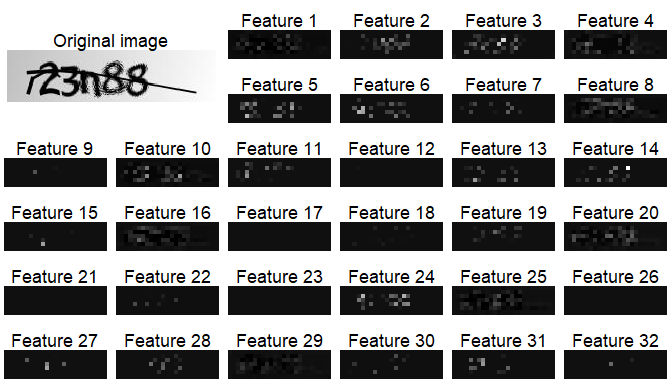
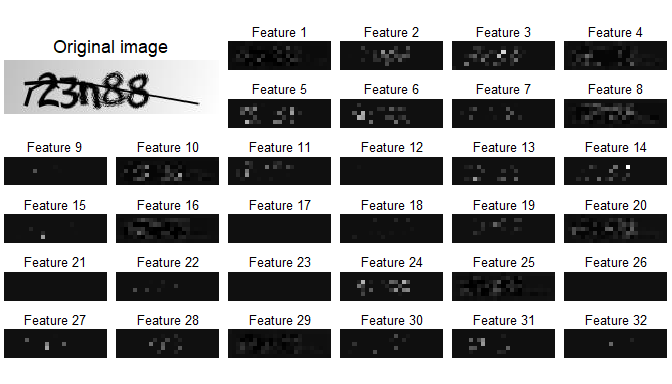
Improve convolutional feature images and prediction example images (row spacings and title bottom margins).

diff --git a/README.md b/README.md
@@ -1,8 +1,8 @@
 
 # Breaking Text-Based CAPTCHA with Convolutional Nerual Network (CNN)
 
-**Authors**: Xiurui Zhu<br /> **Modified**: 2021-08-26 02:00:56<br />
-**Compiled**: 2021-08-26 02:00:59
+**Authors**: Xiurui Zhu<br /> **Modified**: 2021-08-26 17:59:25<br />
+**Compiled**: 2021-08-26 17:59:29
 
 ## Abstract
 
@@ -128,7 +128,7 @@ matrix2gg_image <- function(
   decimal = TRUE,
   title = NULL,
   title_style = ggplot2::element_text(hjust = 0.5),
-  plot_margin = ggplot2::unit(c(5.5, 5.5, 5.5, 5.5), "points")
+  plot_margin = grid::unit(c(5.5, 5.5, 5.5, 5.5), "points")
   ) {
   mat_rgb <- matrix. %>%
     apply(MARGIN = 1L:2L, function(x) {
@@ -330,7 +330,7 @@ deep_models <- purrr::rerun(
                            activation = "softmax")
     )
 )
-length(deep_models)
+print(length(deep_models))
 #> [1] 5
 deepviz::plot_model(deep_models[[1L]])
 ```
@@ -403,8 +403,13 @@ The final CNN model was trained with 940 images with 20% of them as
 cross-validation dataset.
 
 ``` r
+# Define training dataset
 set.seed(999L)
 train_idx <- sample.int(dim(data_x)[1L], size = length(file_names) - 100L)
+print(length(train_idx))
+#> [1] 940
+
+# Train model
 model_history <- model %>%
   keras::fit(x = data_x[train_idx, , , , drop = FALSE],
              y = data_y %>%
@@ -450,19 +455,27 @@ the convoluted values were linearly scaled to range \[0,1\] with
 positive coefficient and rendered in grayscale (figures as below).
 
 ``` r
-# Derive convolutional features
-conv_image_matrix <- data_x[5L, , , , drop = FALSE]
 conv_features <- conv_model %>%
-  predict(x = conv_image_matrix) %>%
-  drop()
+  predict(x = data_x)
+print(dim(conv_features))
+#> [1] 1040    7   25   32
+```
 
-# Convert convolutional matrices into images (with 0-1 scaling)
-conv_features_scale <- range(as.numeric(conv_features)) %>%
-  {(conv_features - .[1L]) / diff(.)}
+``` r
+# Select an image
+image_idx <- 5L
+
+# Scale selected convolutional features
+sel_conv_features_rescale <- conv_features[image_idx, , , , drop = TRUE] %>%
+  scales::rescale(to = c(0, 1))
+print(dim(sel_conv_features_rescale))
+#> [1]  7 25 32
+
+# Convert selected convolutional matrices into images
 conv_plots <- purrr::reduce(
-  .x = 1:dim(conv_features_scale)[3L],
+  .x = 1:dim(sel_conv_features_rescale)[3L],
   .f = ~ {
-    .x[[.y]] <- conv_features_scale[, , .y, drop = FALSE]
+    .x[[.y]] <- sel_conv_features_rescale[, , .y, drop = FALSE]
     .x
   },
   .init = list()
@@ -472,27 +485,48 @@ conv_plots <- purrr::reduce(
       matrix2gg_image(
         decimal = TRUE,
         title = .y,
-        title_style = ggplot2::element_text(hjust = 0.5),
-        plot_margin = ggplot2::unit(c(3.5, 3.5, 3.5, 3.5), "points")
+        title_style = ggplot2::element_text(
+          hjust = 0.5,
+          size = 10,
+          margin = ggplot2::margin(0, 0, 2, 0, unit = "pt")
+        ),
+        plot_margin = grid::unit(c(0.5, 3.5, 0.5, 3.5), "points")
       )
   })
 
+# Define layout matrix
+layout_matrix <- rbind(
+  cbind(
+    # Original image
+    matrix(rep(1L, 4L), nrow = 2L, ncol = 2L),
+    # Convolutional features 1~8
+    matrix(2L:9L, nrow = 2L, ncol = 4L, byrow = TRUE)
+  ),
+  # Convolutional features 9~32
+  matrix(10L:33L, nrow = 4L, ncol = 6L, byrow = TRUE)
+)
+print(dim(layout_matrix))
+#> [1] 6 6
+
 # Arrange images
-conv_image_matrix %>%
+data_x[image_idx, , , , drop = TRUE] %>%
   drop() %>%
   keras::array_reshape(dim = c(dim(.), 1L)) %>%
-  matrix2gg_image(decimal = TRUE, title = "Original image") %>%
+  matrix2gg_image(
+    decimal = TRUE,
+    title = "Original image",
+    title_style = ggplot2::element_text(
+      hjust = 0.5,
+      margin = ggplot2::margin(0, 0, 3, 0, unit = "pt")
+    ),
+    plot_margin = grid::unit(c(3.5, 3.5, 3.5, 3.5), "points")
+  ) %>%
   list() %>%
   append(conv_plots) %>%
   {gridExtra::arrangeGrob(
     grobs = .,
-    layout_matrix = rbind(
-      cbind(
-        matrix(rep(1L, 4L), nrow = 2L, ncol = 2L),
-        matrix(2L:9L, nrow = 2L, ncol = 4L, byrow = TRUE)
-      ),
-      matrix(10L:33L, nrow = 4L, ncol = 6L, byrow = TRUE)
-    )
+    layout_matrix = layout_matrix,
+    heights = grid::unit(rep(3, nrow(layout_matrix)), "line")
   )} %>%
   grid::grid.draw()
 ```
@@ -505,6 +539,7 @@ Training history of the final CNN model was revealed in terms of loss
 and accuracy (figure as below).
 
 ``` r
+# Plot training history: loss and metrics
 model_history[["metrics"]] %>%
   tibble::as_tibble() %>%
   dplyr::select(dplyr::matches("model_[0-9]+")) %>%
@@ -544,7 +579,8 @@ model_history[["metrics"]] %>%
 
 ### Model testing
 
-The final CNN model was tested with the remaining 100 images.
+Tested with the remaining 100 images, the final CNN model achieved an
+overall accuracy of 70%.
 
 ``` r
 # Define a function to convert categorical matrix list to character vector
@@ -558,8 +594,12 @@ matrices2labels <- function(matrices, class_level) {
     purrr::pmap_chr(paste0)
 }
 
-# Derive predictions and convert them to labels
+# Define testing dataset
 test_idx <- setdiff(seq_along(file_names), train_idx)
+print(length(test_idx))
+#> [1] 100
+
+# Derive predictions and convert them to labels
 model_pred <- model %>%
   predict(x = data_x[test_idx, , , , drop = FALSE]) %>%
   matrices2labels(class_level = class_level)
@@ -575,8 +615,8 @@ print(model_accuracy)
 #> [1] 0.7
 ```
 
-The final CNN model achieved an overall accuracy of 70%. Below were some
-example prediction results from the final CNN model.
+Below were the prediction results of some example images from the
+testing dataset.
 
 ``` r
 # Define a function to plot images and print the truth and the prediction
@@ -594,10 +634,13 @@ display_pred_example <- function(data, pred, truth, index) {
     matrix2gg_image(
       decimal = TRUE,
       title = plot_title,
-      title_style = ggtext::element_markdown(family = "mono",
-                                             hjust = 0.5,
-                                             size = 10),
-      plot_margin = ggplot2::unit(c(3.5, 3.5, 3.5, 3.5), "points")
+      title_style = ggtext::element_markdown(
+        family = "mono",
+        hjust = 0.5,
+        size = 10,
+        margin = ggplot2::margin(0, 0, 3, 0, unit = "pt")
+      ),
+      plot_margin = grid::unit(c(3.5, 3.5, 3.5, 3.5), "points")
     )
 }
 
@@ -724,11 +767,10 @@ utils::sessionInfo()
 #> [57] grid_4.0.5         ggrepel_0.8.2      crayon_1.4.1       lattice_0.20-41   
 #> [61] cowplot_1.1.1      graphlayouts_0.7.1 haven_2.4.3        gridtext_0.1.4    
 #> [65] hms_1.1.0          ps_1.6.0           zeallot_0.1.0      knitr_1.29        
-#> [69] pillar_1.6.2       igraph_1.2.6       markdown_1.1       ggsignif_0.6.2    
-#> [73] codetools_0.2-18   reprex_2.0.1       glue_1.4.2         evaluate_0.14     
-#> [77] data.table_1.13.0  modelr_0.1.8       tweenr_1.0.2       vctrs_0.3.8       
-#> [81] tzdb_0.1.2         cellranger_1.1.0   polyclip_1.10-0    gtable_0.3.0      
-#> [85] assertthat_0.2.1   ggforce_0.3.3      xfun_0.15          openxlsx_4.2.4    
-#> [89] tidygraph_1.2.0    broom_0.7.9        rstatix_0.7.0      viridisLite_0.3.0 
-#> [93] DiagrammeR_1.0.6.1 ellipsis_0.3.2
+#> [69] pillar_1.6.2       igraph_1.2.6       ggsignif_0.6.2     reprex_2.0.1      
+#> [73] glue_1.4.2         evaluate_0.14      data.table_1.13.0  modelr_0.1.8      
+#> [77] tweenr_1.0.2       vctrs_0.3.8        tzdb_0.1.2         cellranger_1.1.0  
+#> [81] polyclip_1.10-0    gtable_0.3.0       assertthat_0.2.1   ggforce_0.3.3     
+#> [85] xfun_0.15          openxlsx_4.2.4     tidygraph_1.2.0    broom_0.7.9       
+#> [89] rstatix_0.7.0      viridisLite_0.3.0  DiagrammeR_1.0.6.1 ellipsis_0.3.2
 ```
